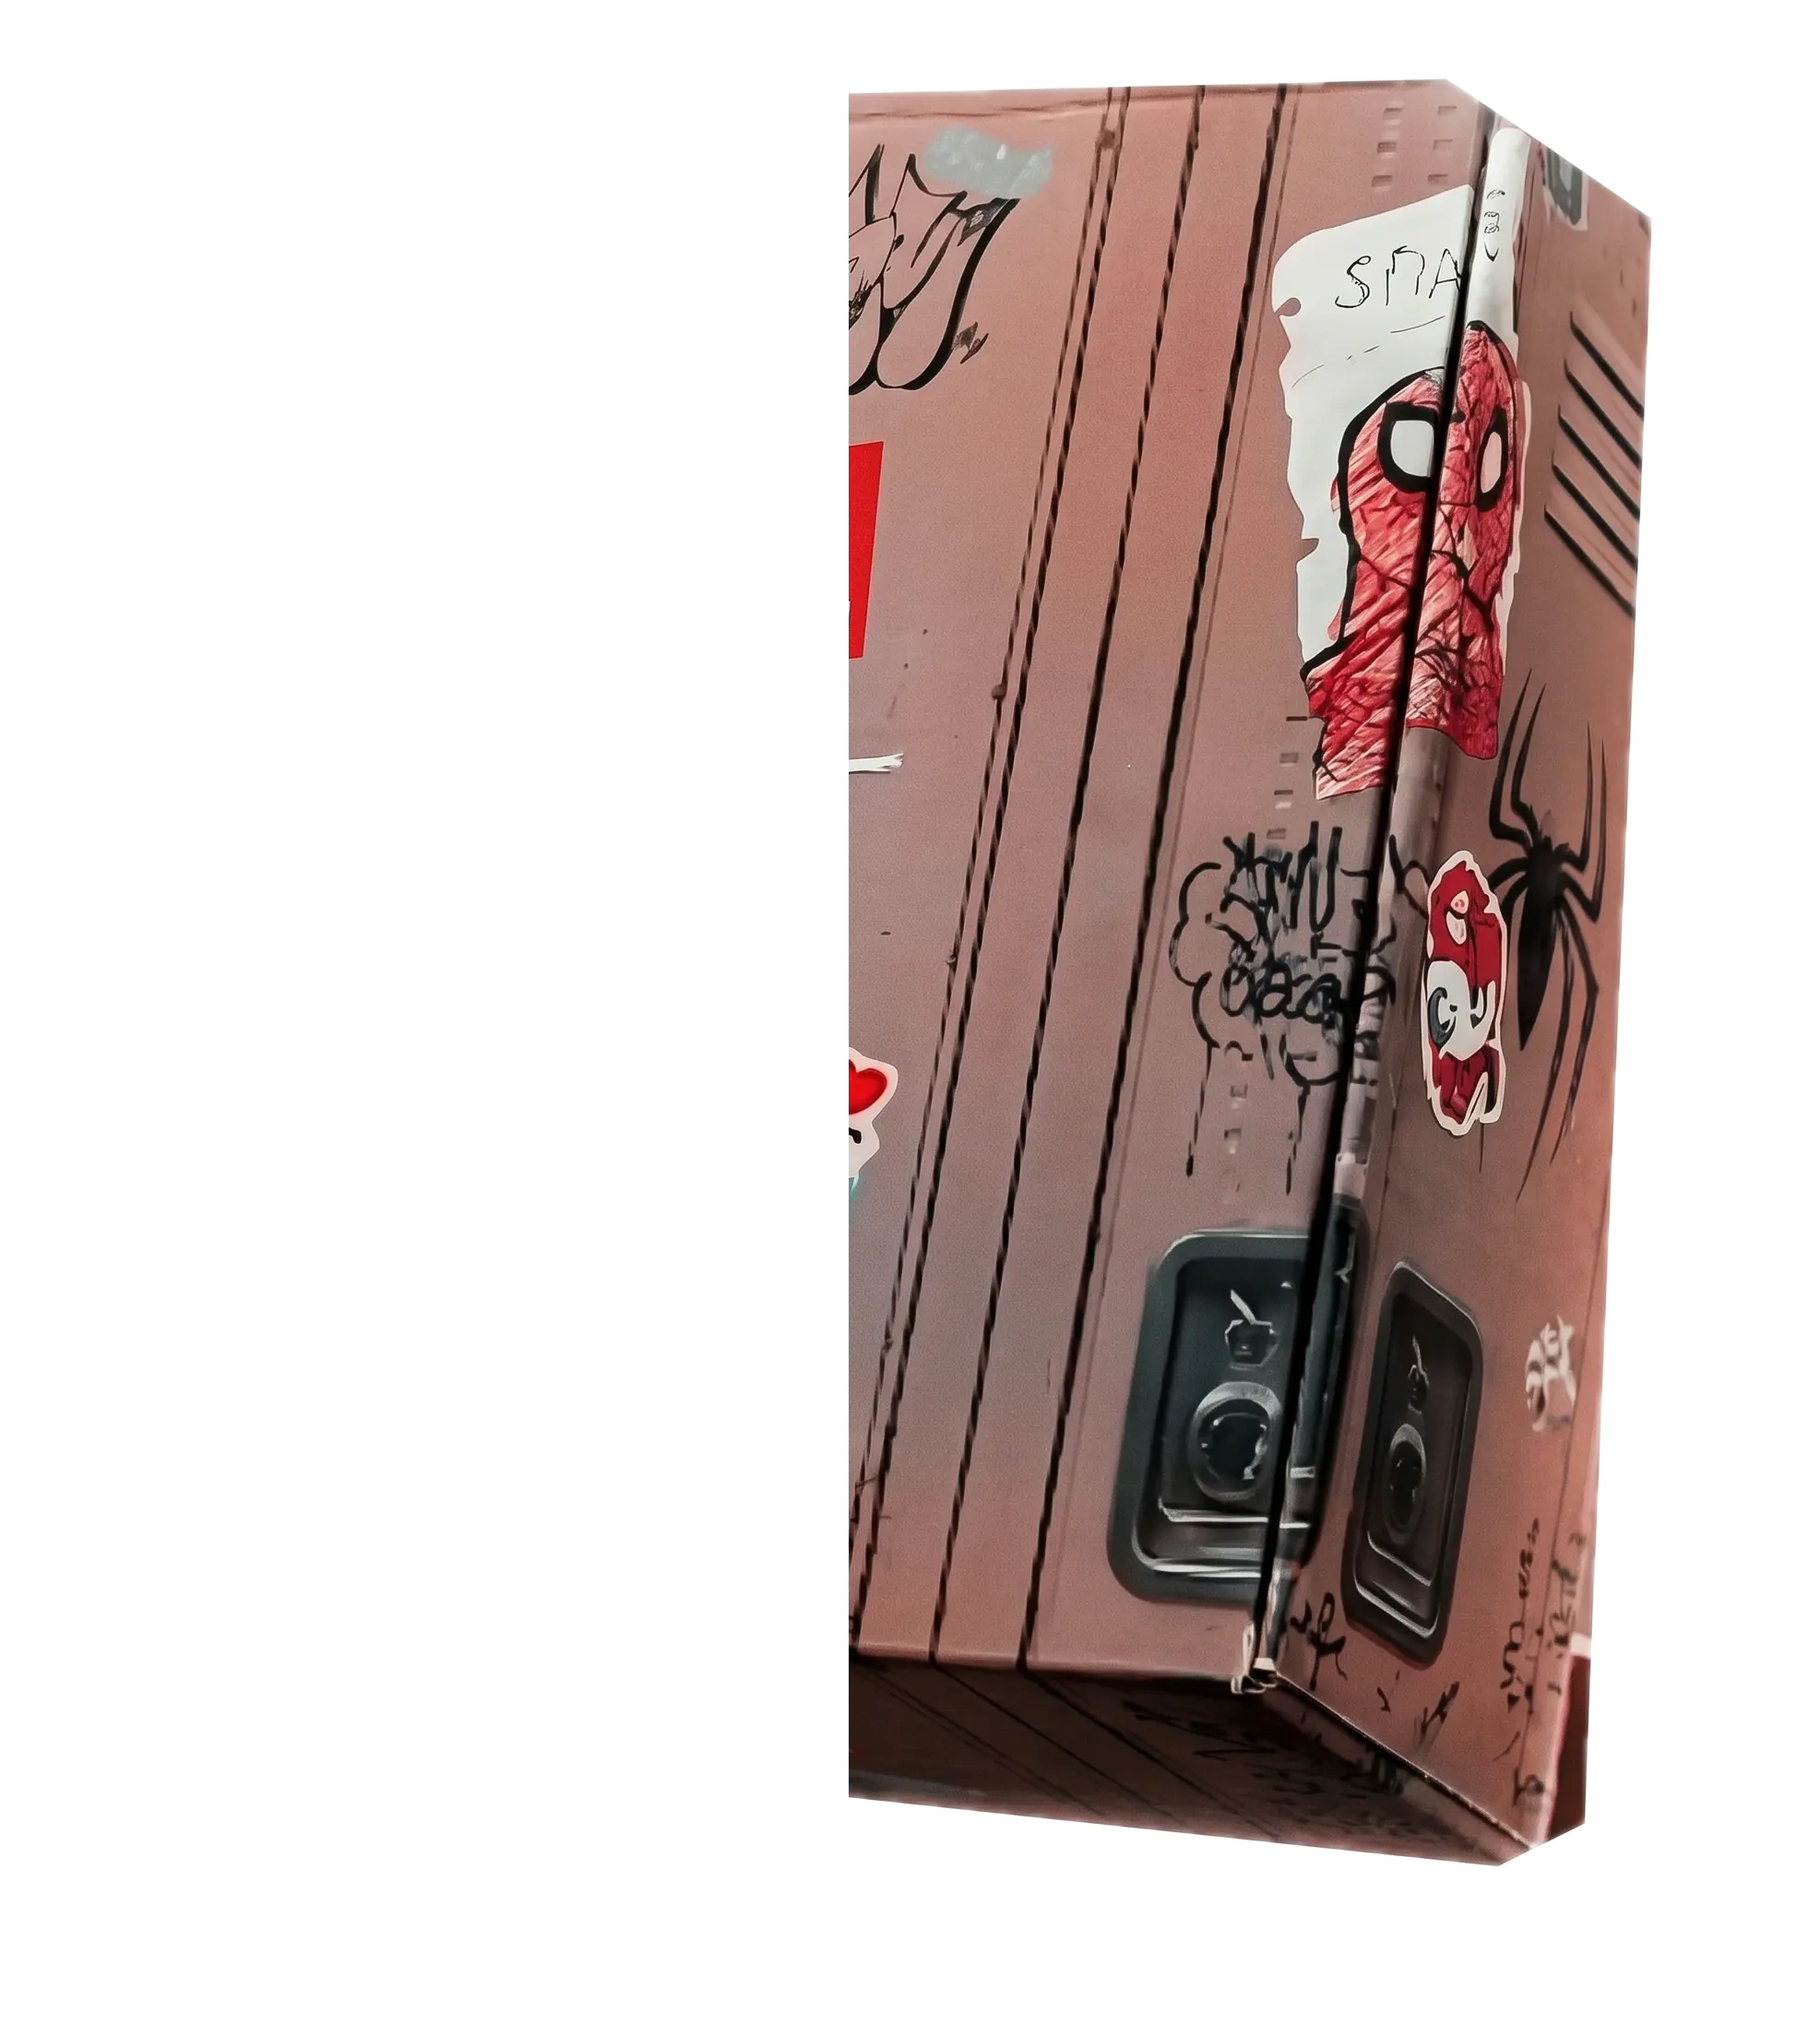
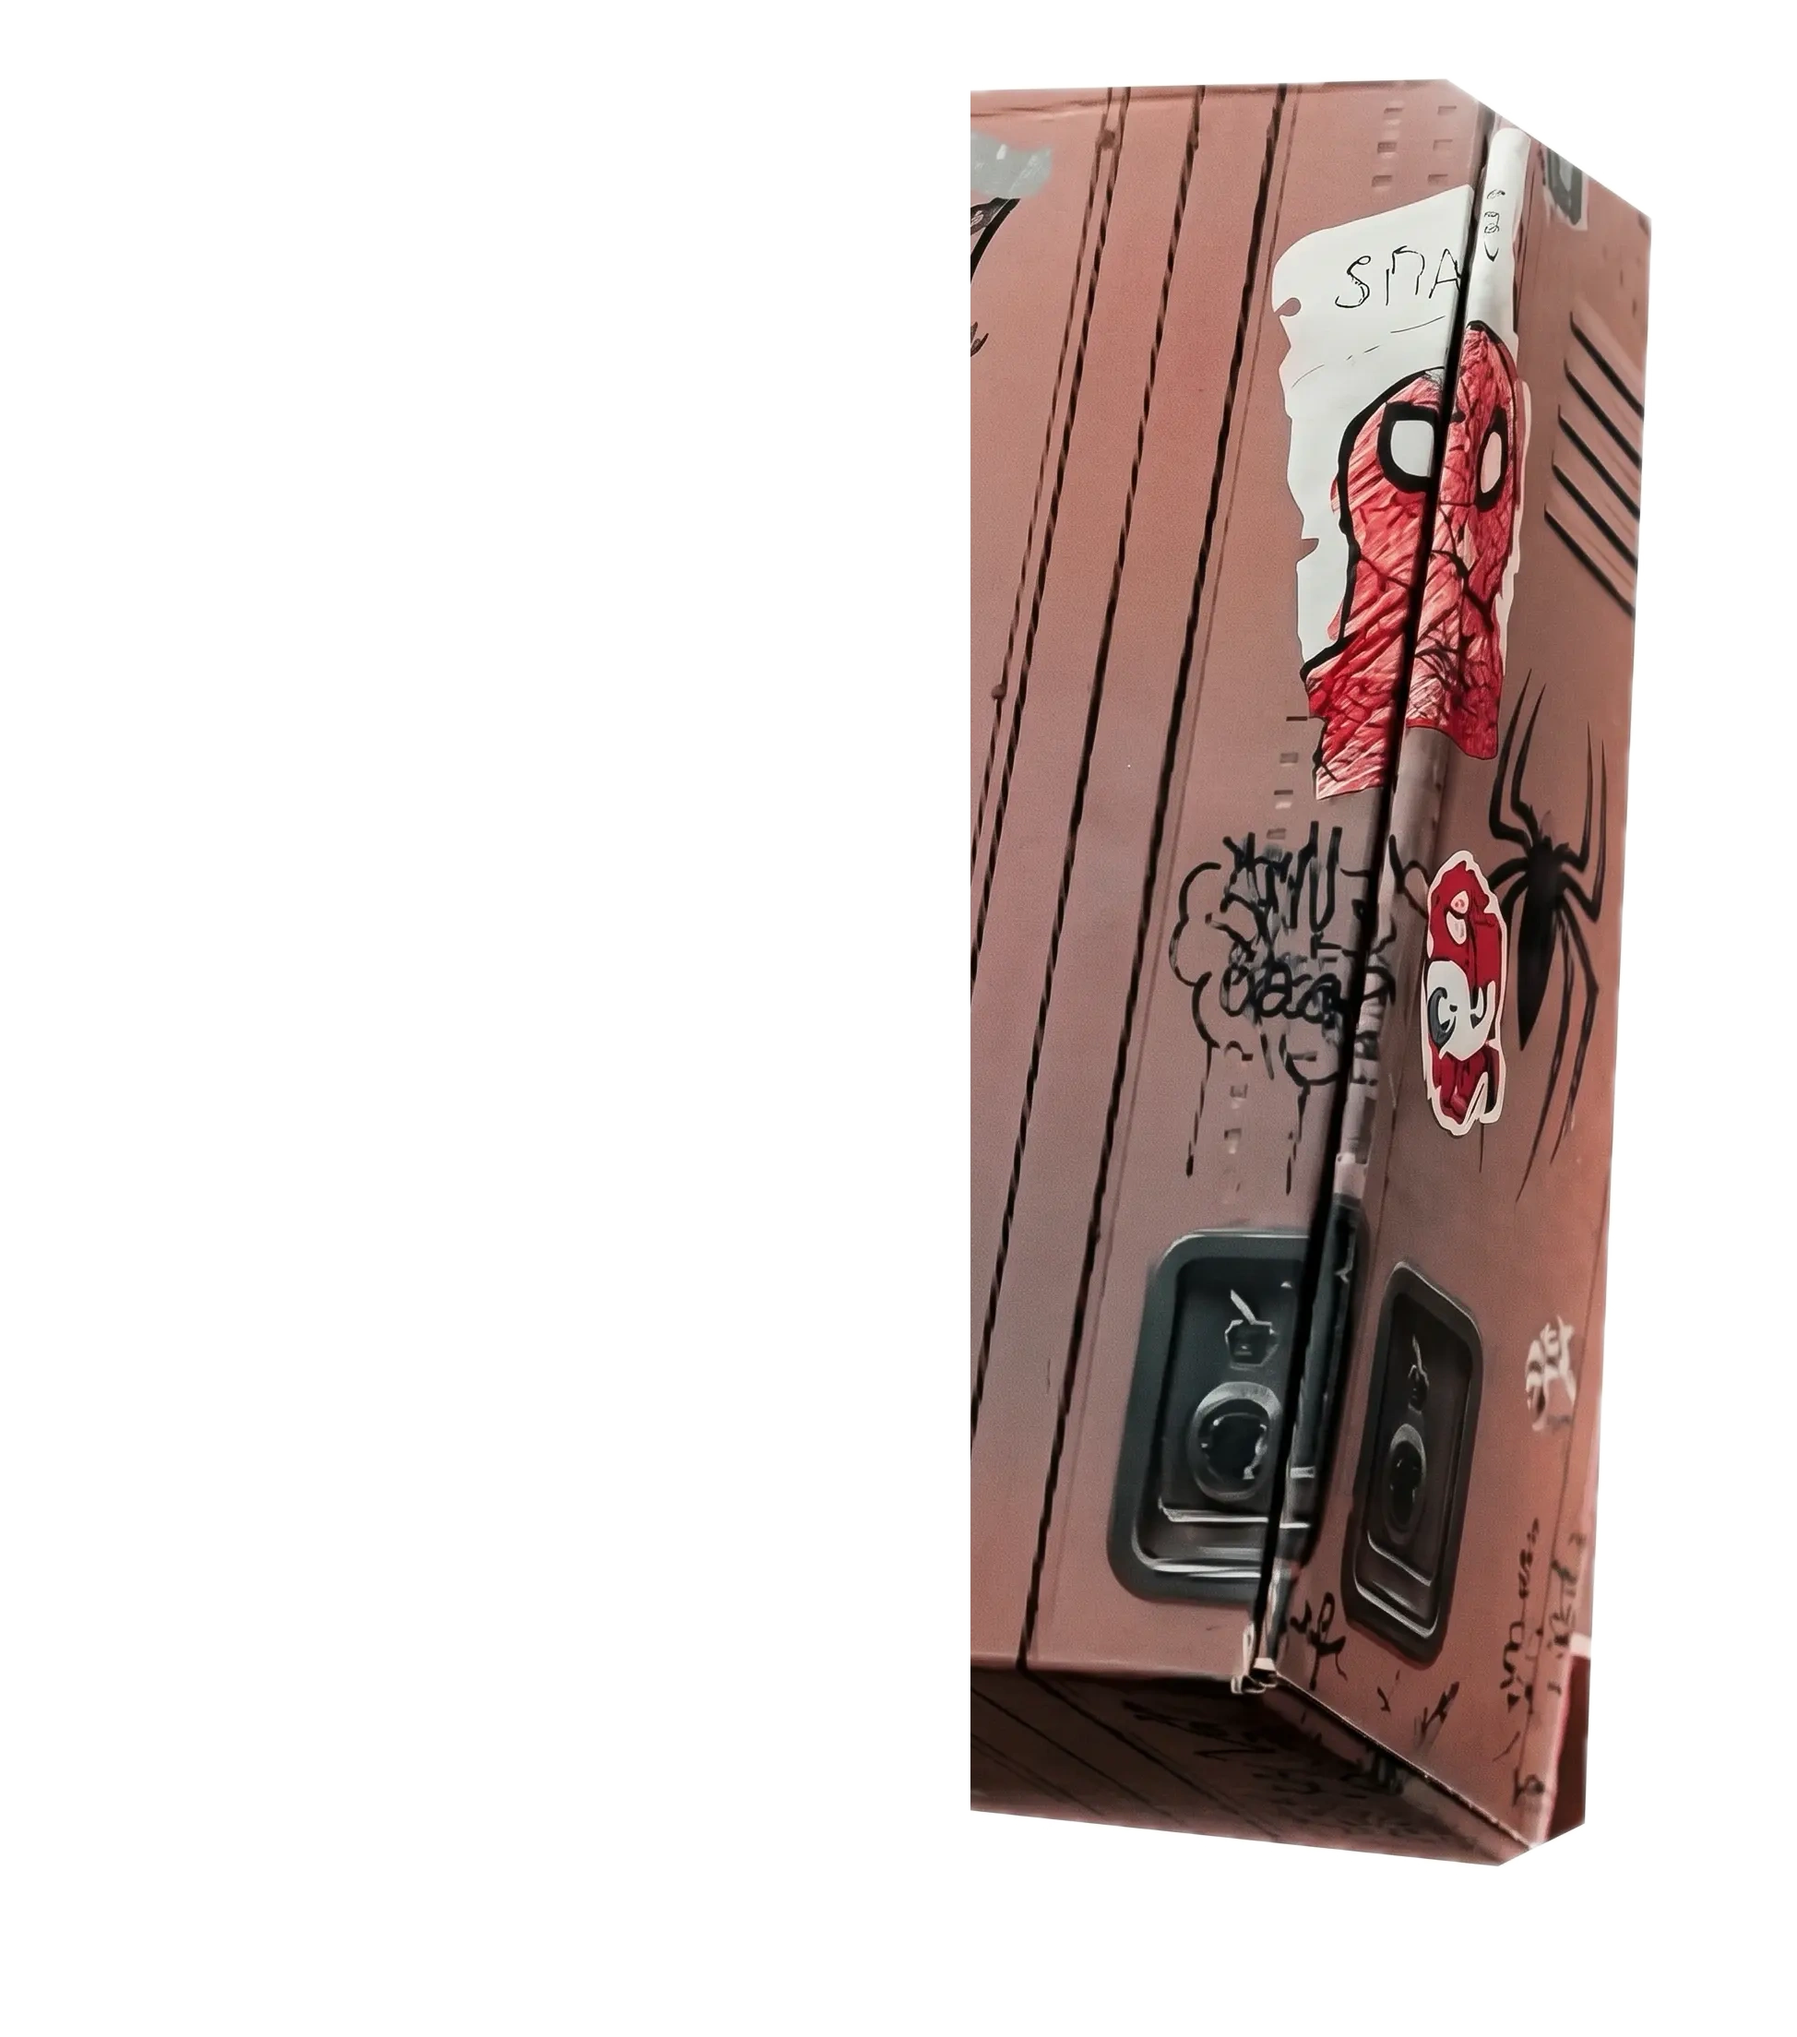
feat: forzar actualizacion de cajaspider con version fresca v3 y deshabilitar cache estatico

Changed region(s): [[0.462, 0.0312, 0.5544, 0.9062]]

diff --git a/src/components/spiderman-box-banner.tsx b/src/components/spiderman-box-banner.tsx
@@ -466,10 +466,11 @@ export default function SpidermanBoxBanner({ onOpenChange }: SpidermanBoxBannerP
                   className="relative w-[140px] h-[140px] xs:w-[160px] xs:h-[160px] sm:w-[280px] sm:h-[280px] md:w-[430px] md:h-[430px] filter drop-shadow-[0_15px_30px_rgba(0,0,0,0.95)] drop-shadow-[0_0_25px_rgba(220,38,38,0.5)] group-hover:drop-shadow-[0_0_60px_rgba(239,68,68,0.85)] transition-all duration-300"
                 >
                   <Image
-                    src="/assets/images/spiderman/cajaspider.webp"
+                    src="/assets/images/spiderman/cajaspider-v3.webp"
                     alt="Caja 3D Spider-Man x Civil Regime"
                     fill
                     priority
+                    unoptimized
                     className="object-contain"
                   />
                   {/* Subtle Interactive Sheen Highlight */}
@@ -510,10 +511,11 @@ export default function SpidermanBoxBanner({ onOpenChange }: SpidermanBoxBannerP
                     }}
                   >
                     <Image
-                      src="/assets/images/spiderman/cajaspider-door-left.webp"
+                      src="/assets/images/spiderman/cajaspider-door-left-v3.webp"
                       alt="Caja 3D Spider-Man Izquierda"
                       fill
                       priority
+                      unoptimized
                       className="object-contain"
                     />
                   </motion.div>
@@ -530,10 +532,11 @@ export default function SpidermanBoxBanner({ onOpenChange }: SpidermanBoxBannerP
                     }}
                   >
                     <Image
-                      src="/assets/images/spiderman/cajaspider-door-right.webp"
+                      src="/assets/images/spiderman/cajaspider-door-right-v3.webp"
                       alt="Caja 3D Spider-Man Derecha"
                       fill
                       priority
+                      unoptimized
                       className="object-contain"
                     />
                   </motion.div>
